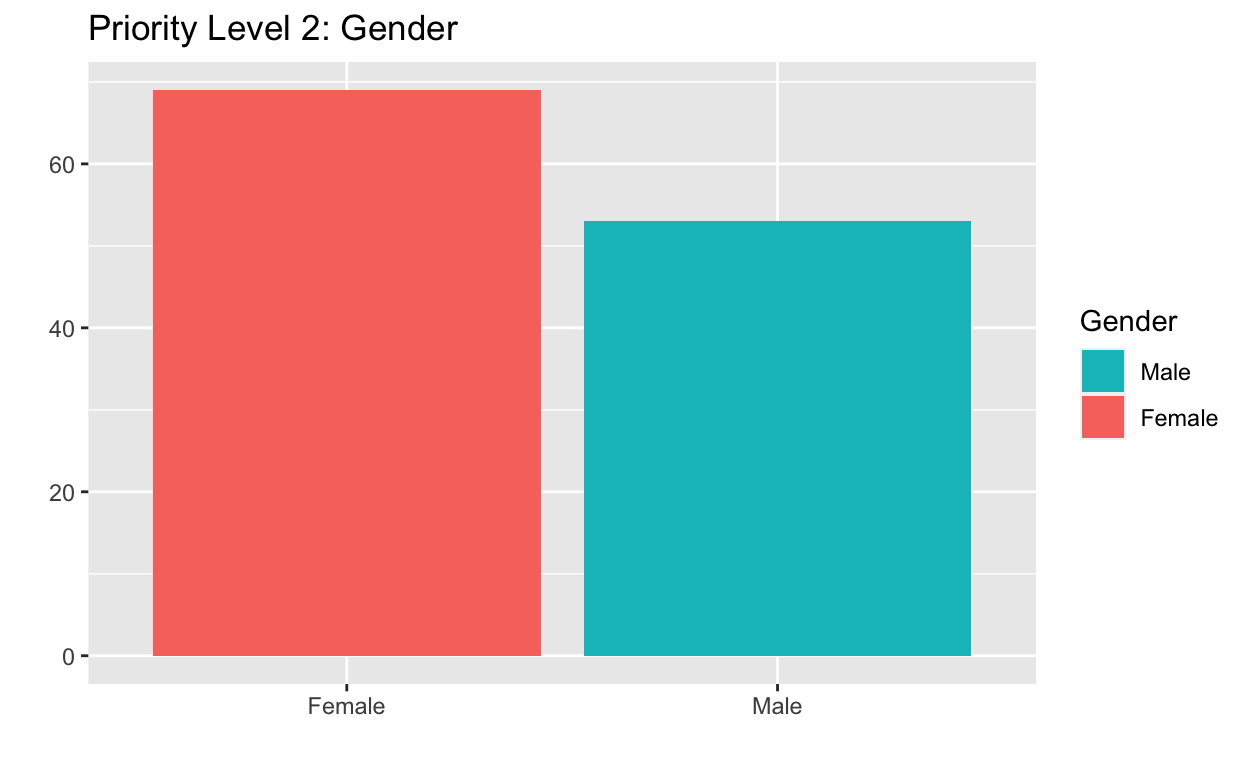
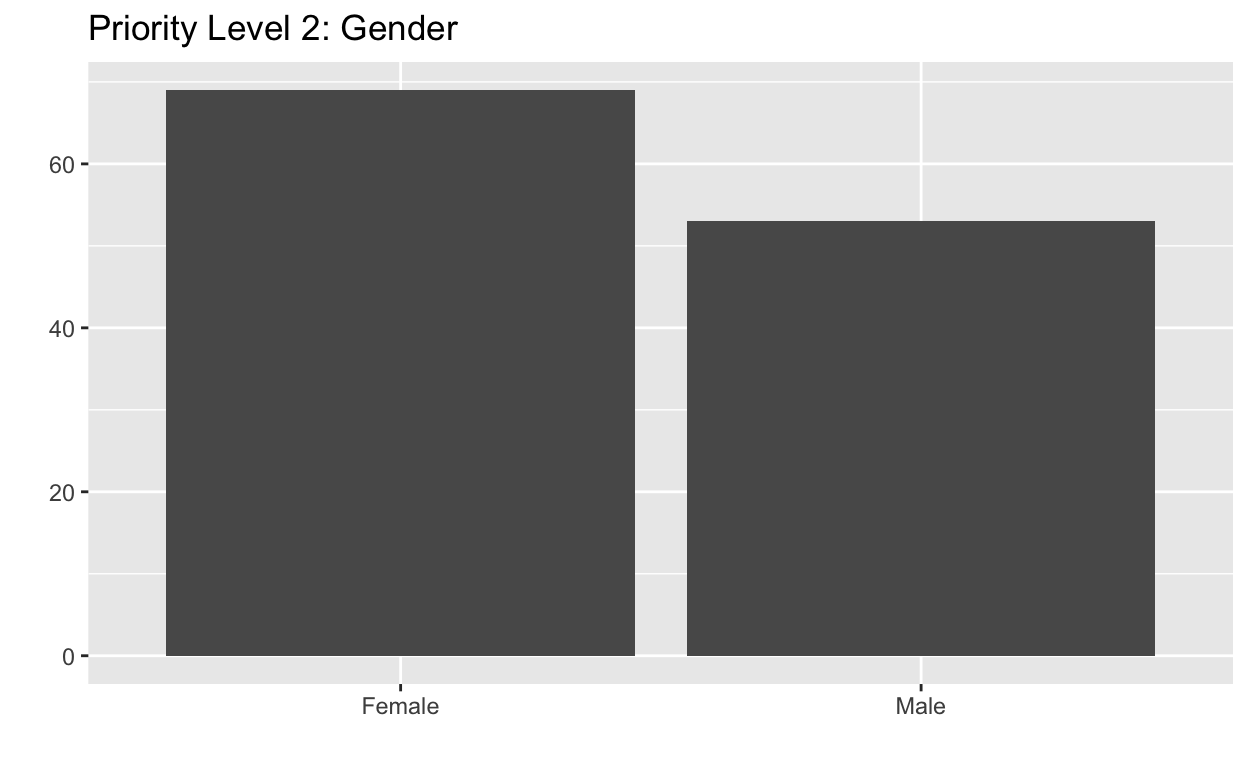
gender coloring is redundant

diff --git a/docs/index.html b/docs/index.html
@@ -2104,8 +2104,8 @@ Reports
 <h1 id="priority-levels">Priority Levels</h1>
 <p>The priority levels divide the entries pretty evenly.</p>
 <div class="layout-chunk" data-layout="l-body">
-<div id="htmlwidget-e232bcc78817d1a11440" style="width:100%;height:auto;" class="datatables html-widget"></div>
-<script type="application/json" data-for="htmlwidget-e232bcc78817d1a11440">{"x":{"filter":"none","data":[[1,2,3],[118,122,104]],"container":"<table class=\"display\">\n  <thead>\n    <tr>\n      <th>Priority Level<\/th>\n      <th>Total<\/th>\n    <\/tr>\n  <\/thead>\n<\/table>","options":{"columnDefs":[{"className":"dt-right","targets":[0,1]}],"order":[],"autoWidth":false,"orderClasses":false}},"evals":[],"jsHooks":[]}</script>
+<div id="htmlwidget-6a228f57a7b27965e53c" style="width:100%;height:auto;" class="datatables html-widget"></div>
+<script type="application/json" data-for="htmlwidget-6a228f57a7b27965e53c">{"x":{"filter":"none","data":[[1,2,3],[118,122,104]],"container":"<table class=\"display\">\n  <thead>\n    <tr>\n      <th>Priority Level<\/th>\n      <th>Total<\/th>\n    <\/tr>\n  <\/thead>\n<\/table>","options":{"columnDefs":[{"className":"dt-right","targets":[0,1]}],"order":[],"autoWidth":false,"orderClasses":false}},"evals":[],"jsHooks":[]}</script>
 </div>
 <h1 id="gender-in-priority-levels">Gender in Priority Levels</h1>
 <p>As priority level decreases, the ratio of males to females increases. This is expected based on the analysis after Phase 2: in Public Interest, the main role in Priority 1, women far outnumbered men; men were better represented in Government and Corporate and formed a small majority in Judiciary and Law Firm.</p>
